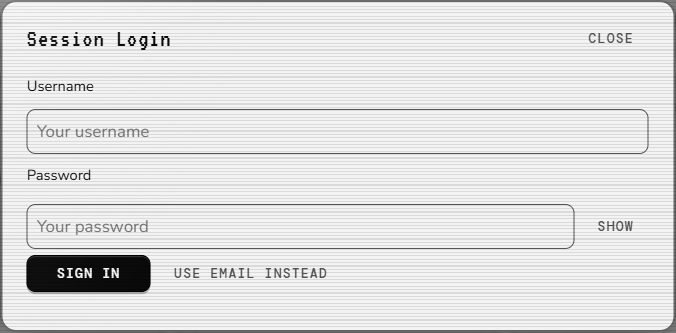
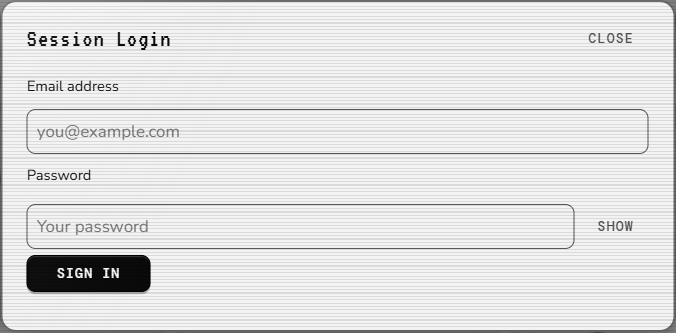
Use email-only login and simplify database settings

diff --git a/session-tv/public/js/local.js b/session-tv/public/js/local.js
@@ -10,11 +10,10 @@
  dialog.innerHTML=`<div class="local-panel"><div class="row spread"><h2 id="local-heading">Session Login</h2><button class="btn ghost" id="local-close" autofocus>Close</button></div>
  <p id="workspace-status" class="small"></p>
  <section id="workspace-auth"><form id="workspace-login">
- <label for="workspace-username" id="workspace-identifier-label">Username</label><input id="workspace-username" name="username" type="text" required autocomplete="username" autocapitalize="none" spellcheck="false" placeholder="Your username">
+ <label for="workspace-email" id="workspace-identifier-label">Email address</label><input id="workspace-email" name="email" type="email" required autocomplete="email" autocapitalize="none" spellcheck="false" placeholder="you@example.com">
  <label for="workspace-password">Password</label><div class="password-field"><input id="workspace-password" name="password" type="password" required autocomplete="current-password" placeholder="Your password"><button class="btn ghost" id="workspace-show-password" type="button" aria-controls="workspace-password" aria-pressed="false">Show</button></div>
- <div class="local-actions"><button class="btn primary" id="workspace-signin" type="submit">Sign In</button><button class="btn ghost" id="workspace-email-mode" type="button">Use email instead</button></div>
+ <div class="local-actions"><button class="btn primary" id="workspace-signin" type="submit">Sign In</button></div>
 </form></section>
- <section id="workspace-profile" hidden><h3>Username preferences</h3><form id="workspace-username-form"><label for="workspace-chosen-username">Username</label><input id="workspace-chosen-username" autocomplete="username" minlength="3" maxlength="32" required><button class="btn" type="submit">Save username</button></form></section>
  <button class="btn" id="workspace-signout" hidden>Sign out</button>
  <details id="ai-connections"><summary>AI Connections</summary><h3>ChatGPT</h3><p class="small muted" id="local-ai-status">Not connected</p>
  <h3>Codex & Local AI Companion</h3><p class="small muted" id="companion-status">Computer disconnected</p>
@@ -32,14 +31,11 @@
  $('preferences-close').onclick=()=>preferences.close();
  preferences.addEventListener('click',event=>{const button=event.target.closest('[data-pref]');if(!button)return;const name=button.dataset.pref,value=button.dataset.value;if(name==='scheme'){TV.scheme=value;store('sb.scheme',value);applyScheme()}else if(name==='screenEffect'){TV.screenEffect=value==='on';store('sb.screenEffect',TV.screenEffect)}else if(name==='cut'){TV.cutLen=Number(value);store('sb.cutLen',TV.cutLen)}syncPreferences()});
  syncPreferences();
- function update(){const mode=SessionWorkspace.mode,privateMode=mode==='private';$('workspace-status').textContent=privateMode?'Private account active. Records are saved to Supabase.':mode==='demo'?'Browse courses, assignments, skills and projects. Editing and AI are disabled.':'Sign in to use Supabase, then add your records in My Database.';$('workspace-auth').hidden=privateMode;$('workspace-profile').hidden=!privateMode||setupView!=='preferences';$('workspace-signout').hidden=true;$('companion-controls').hidden=!privateMode;$('workspace-status').hidden=true;$('ai-connections').hidden=!privateMode||setupView!=='preferences';$('session-music').hidden=!privateMode||setupView!=='preferences';if($('local-open'))$('local-open').textContent=privateMode?'Logout':'Login to Session';}
- async function openLocalSetup(view=SessionWorkspace.mode==='private'?'preferences':'login'){setupView=view==='preferences'?'preferences':'login';$('local-heading').textContent=setupView==='preferences'?'Session Preferences':'Session Login';update();$('local-message').textContent='';dialog.showModal();if(SessionCloud.user){$('companion-status').textContent='Checking computer connection…';status().catch(error=>{$('companion-status').textContent=error.message});try{$('workspace-chosen-username').value=await SessionCloud.getUsername()||''}catch{$('local-message').textContent='Username setup is not available yet. Apply the username account migration first.'}}}
+ function update(){const mode=SessionWorkspace.mode,privateMode=mode==='private';$('workspace-status').textContent=privateMode?'Private account active. Records are saved to Supabase.':mode==='demo'?'Browse courses, assignments, skills and projects. Editing and AI are disabled.':'Sign in to use Supabase, then add your records in My Database.';$('workspace-auth').hidden=privateMode;$('workspace-signout').hidden=true;$('companion-controls').hidden=!privateMode;$('workspace-status').hidden=true;$('ai-connections').hidden=!privateMode||setupView!=='preferences';$('session-music').hidden=!privateMode||setupView!=='preferences';if($('local-open'))$('local-open').textContent=privateMode?'Logout':'Login to Session';}
+ async function openLocalSetup(view=SessionWorkspace.mode==='private'?'preferences':'login'){setupView=view==='preferences'?'preferences':'login';$('local-heading').textContent=setupView==='preferences'?'Session Preferences':'Session Login';update();$('local-message').textContent='';dialog.showModal();if(SessionCloud.user){$('companion-status').textContent='Checking computer connection…';status().catch(error=>{$('companion-status').textContent=error.message});}}
  function fail(error){$('local-message').textContent=error.message}
- let emailMode=false;
- $('workspace-email-mode').onclick=()=>{emailMode=!emailMode;const field=$('workspace-username');field.value='';field.type=emailMode?'email':'text';field.placeholder=emailMode?'you@example.com':'Your username';$('workspace-identifier-label').textContent=emailMode?'Email address':'Username';$('workspace-email-mode').textContent=emailMode?'Use username instead':'Use email instead';field.focus()};
  $('workspace-show-password').onclick=()=>{const input=$('workspace-password'),visible=input.type==='password';input.type=visible?'text':'password';$('workspace-show-password').textContent=visible?'Hide':'Show';$('workspace-show-password').setAttribute('aria-pressed',String(visible))};
- $('workspace-login').onsubmit=async e=>{e.preventDefault();const button=$('workspace-signin');button.disabled=true;button.textContent='Signing in...';$('local-message').textContent='';try{await SessionCloud.signInWithPassword($('workspace-username').value,$('workspace-password').value)}catch(error){fail(error)}finally{$('workspace-password').value='';button.disabled=false;button.textContent='Sign In'}};
- $('workspace-username-form').onsubmit=async e=>{e.preventDefault();const button=e.currentTarget.querySelector('button');button.disabled=true;try{const username=await SessionCloud.setUsername($('workspace-chosen-username').value);$('workspace-chosen-username').value=username;$('local-message').textContent='Username saved. Your account and records are unchanged.'}catch(error){fail(error)}finally{button.disabled=false}};
+ $('workspace-login').onsubmit=async e=>{e.preventDefault();const button=$('workspace-signin');button.disabled=true;button.textContent='Signing in...';$('local-message').textContent='';try{await SessionCloud.signInWithPassword($('workspace-email').value,$('workspace-password').value)}catch(error){fail(error)}finally{$('workspace-password').value='';button.disabled=false;button.textContent='Sign In'}};
  $('workspace-signout').onclick=async()=>{try{await SessionCloud.signOut()}catch(error){fail(error)}};
  $('local-close').onclick=()=>dialog.close(); async function status(){const value=await SessionCompanion.status();$('companion-status').textContent=value.error||(!value.connected?'Computer disconnected':value.busy?'Codex is working':value.signedIn?'Computer connected · Codex ready':'Computer connected · Sign in to Codex');const list=value.workspaces||[];$('companion-workspace').replaceChildren(...list.map(w=>{const o=document.createElement('option');o.value=typeof w==='string'?w:w.id||w.path;o.textContent=typeof w==='string'?w:w.name||w.path||w.id;return o}));return value}
  $('companion-pair').onclick=async()=>{try{await SessionCompanion.pair($('companion-code').value);$('companion-code').value='';await status()}catch(error){fail(error)}};

diff --git a/session-tv/public/js/cloud.js b/session-tv/public/js/cloud.js
@@ -12,7 +12,6 @@
   const response=await fetch(url+route,{method,headers:{apikey:key,'Content-Type':'application/json',...(auth?{Authorization:'Bearer '+session.access_token}:{})},body:body===undefined?undefined:JSON.stringify(body),signal:AbortSignal.timeout(20000)});
   const text=await response.text();let data;try{data=text?JSON.parse(text):null}catch{throw new Error('Supabase returned an invalid response.');}
   if(!response.ok){
-   if(route==='/functions/v1/username-login'&&response.status===404)throw new Error('Username sign-in needs account setup. Use email sign-in until the username service is deployed.');
    throw new Error(data?.msg||data?.message||data?.error_description||data?.error||'Cloud request failed ('+response.status+').');
   }
   return data;
@@ -91,19 +90,11 @@
   async signInWithPassword(identifier,password){
    identifier=String(identifier||'').trim();
    if(!password||typeof password!=='string'||password.length>1024)throw new Error('Enter your password.');
-   let value;
-   if(identifier.includes('@')){
-    if(!/^[^\s@]+@[^\s@]+\.[^\s@]+$/.test(identifier))throw new Error('Enter a valid email address.');
-    value=await request('/auth/v1/token?grant_type=password',{method:'POST',auth:false,body:{email:identifier,password}});
-   }else{
-    if(!/^[a-z0-9][a-z0-9_.-]{2,31}$/i.test(identifier))throw new Error('Enter a username of 3–32 letters, numbers, dots, underscores or hyphens.');
-    value=await request('/functions/v1/username-login',{method:'POST',auth:false,body:{username:identifier.toLowerCase(),password}});
-   }
+   if(!/^[^\s@]+@[^\s@]+\.[^\s@]+$/.test(identifier))throw new Error('Enter a valid email address.');
+   const value=await request('/auth/v1/token?grant_type=password',{method:'POST',auth:false,body:{email:identifier,password}});
    // Persist only session tokens; never store the submitted password.
    await activate(value);location.reload();
   },
-  async getUsername(){await ready;return rpc('sessiontv_get_username');},
-  async setUsername(username){await ready;return rpc('sessiontv_set_username',{new_username:String(username||'').trim().toLowerCase()});},
   async signOut(){await ready;signingOut=true;database?.unsubscribe?.();if(database)clearInterval(database.timer);try{await database?.flush();if(session)await request('/auth/v1/logout',{method:'POST'});}finally{saveSession(null);globalThis.SessionWorkspace?.clearPrivate?.();location.reload();}},
   async exportBackup(){const db=await open();await db.flush();const snap=await rpc('sessiontv_snapshot');return {format:'session-tv-backup',version:1,createdAt:new Date().toISOString(),values:{[SessionStore.KEY]:JSON.stringify(snap.database),...snap.preferences}};},
   async importBackup(backup){validateBackup(backup);const db=await open();await db.flush();const result=await rpc('sessiontv_import',{backup_values:backup.values});await db.load();return result;}

diff --git a/session-tv/public/js/artifact/06.js b/session-tv/public/js/artifact/06.js
@@ -5,6 +5,7 @@ function settingsHeader(title, add, onAdd){
   header.querySelector('h2').innerHTML='Settings'+(title?' <span class="settings-chevron" aria-hidden="true">&gt;</span> <span>'+esc(title)+'</span>':'');
   header.querySelector('#db-add')?.remove();
   const back=$('set-x');
+  back.classList.toggle('btn',!!title);
   back.innerHTML=title?'← Back':'×';
   back.setAttribute('aria-label',title?'Back to settings':'Close settings');
   back.onclick=()=>{if(TV.dbView){TV.dbView=null;renderSettings()}else closeSheets()};
@@ -25,7 +26,7 @@ function renderSettings(){
     ${setTimeCard()}
     <div class="set-card db-card"><h3>My Database</h3>
       <div class="db-stats">${stat(courses.length,'Classes','classes')}${stat(sk.length,'Skills','skills')}${stat(projects.length,'Projects','projects')}<button type="button" class="db-stat resume-placeholder" disabled title="Coming later"><span>Resume &amp; Portfolio</span><small>Coming later</small></button></div>
-      <div class="db-btns"><button class="btn" data-db="learning">Learning Logs</button><button class="btn" data-db="experience">Experience Logs</button></div></div>
+      </div>
   </div>`;
   if($('tt-range'))$('tt-range').onclick=()=>{const i=TT_RANGES.findIndex(x=>x[0]===TV.ttRange);TV.ttRange=TT_RANGES[(i+1)%TT_RANGES.length][0];try{SessionWorkspace.storage.setItem('sb.ttRange',TV.ttRange)}catch(e){}renderSettings()};
   $('set-body').querySelectorAll('[data-db]').forEach(b=>b.onclick=()=>{if(b.dataset.db==='learning'){closeSheets();go('log');return}TV.dbView=b.dataset.db;renderSettings()});

diff --git a/session-tv/public/local.css b/session-tv/public/local.css
@@ -71,3 +71,5 @@ body.tv-home-active #view-log{visibility:hidden;pointer-events:none}#tv-home .gd
 #tv-settings .db-card{grid-column:auto!important}#tv-settings .db-card .db-stats{grid-template-columns:repeat(2,minmax(0,1fr));gap:8px;flex:1}#tv-settings .db-stat{min-width:0;padding:8px;display:flex;flex-direction:column;justify-content:center;align-items:center}#tv-settings .db-stat span{white-space:normal}#tv-settings .resume-placeholder{opacity:.65}#tv-settings .resume-placeholder small{font-size:10px;margin-top:6px}#tv-settings .db-btns{display:flex;flex-wrap:wrap;gap:6px}#tv-settings .db-btns .btn{font-size:11px;padding:7px}.session-preferences-card .row{flex:1;align-items:center}#tv-settings .sheet-x{width:auto;white-space:nowrap}
 
 #tv-settings .db-card .db-stats{min-height:0;grid-template-rows:repeat(2,minmax(0,1fr))}#tv-settings .db-card .db-btns{flex:none;flex-wrap:nowrap;gap:4px}#tv-settings .db-card .db-btns .btn{font-size:9px;padding:6px 4px;letter-spacing:0;flex:1;white-space:nowrap}#tv-settings .db-card .db-stat{padding:4px}
+
+#tv-settings #session-exit,#tv-settings .resume-placeholder{background:#fff!important;color:#171717!important;text-shadow:none!important;opacity:1}#tv-settings .resume-placeholder span,#tv-settings .resume-placeholder small{color:#171717}#tv-settings .sheet-head #set-x.btn{height:auto}
